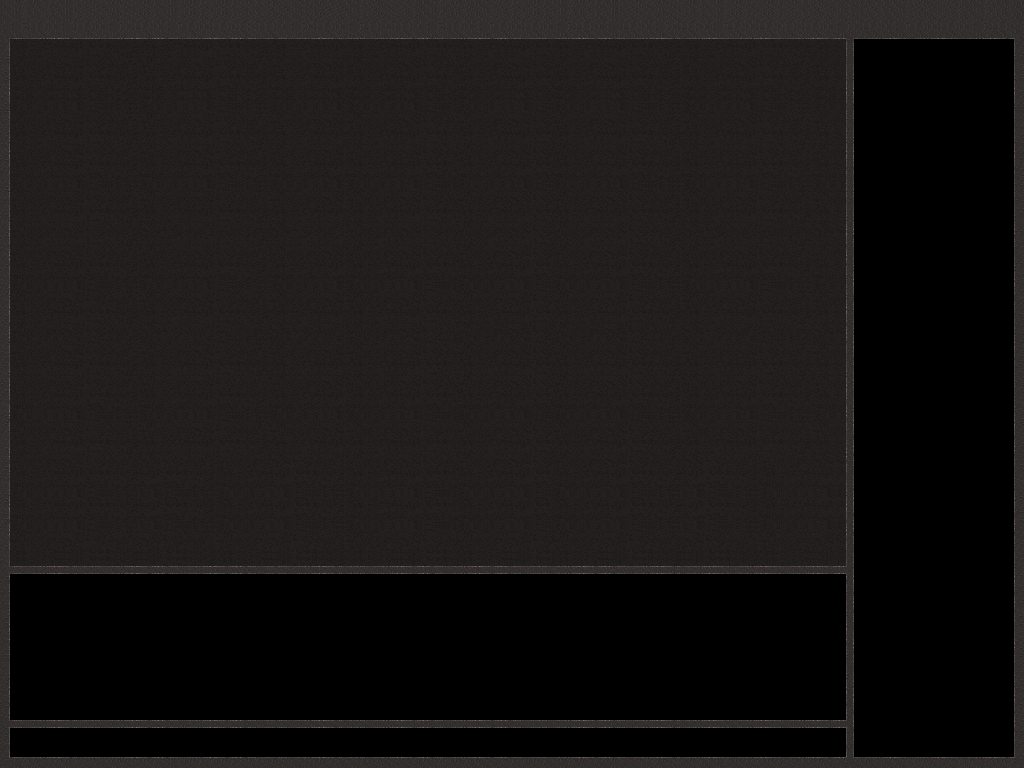
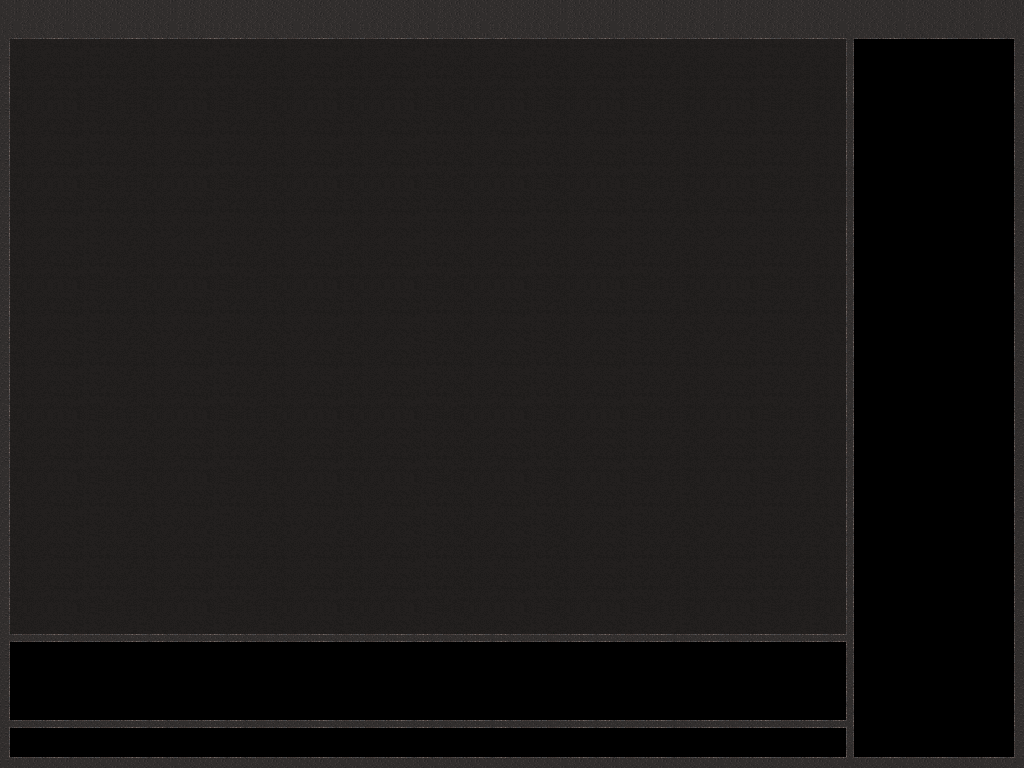
Corrected multiplayer UI.

Changed region(s): [[0.0, 0.7188, 0.8438, 0.8438]]

diff --git a/Wesnoth/src/multiplayer_connect.cpp b/Wesnoth/src/multiplayer_connect.cpp
@@ -325,20 +325,20 @@ connect::side::side(const side& a) :
 
 void connect::side::add_widgets_to_scrollpane(gui::scrollpane& pane, int pos)
 {
-	pane.add_widget(&player_number_,     0, 5 + pos);
-	pane.add_widget(combo_controller_.get(), 20, 5 + pos);
+	pane.add_widget(&player_number_,     0, 45 + pos);
+	pane.add_widget(combo_controller_.get(), 20, 45 + pos);
 	pane.add_widget(&orig_controller_,  20 + (combo_controller_->width() - orig_controller_.width()) / 2,
-									    35 + pos + (combo_leader_.height() - orig_controller_.height()) / 2);
-	pane.add_widget(&combo_ai_algorithm_, 20, 35 + pos);
-	pane.add_widget(&combo_faction_, 135, 5 + pos);
-	pane.add_widget(&combo_leader_,  135, 35 + pos);
-	pane.add_widget(&combo_gender_,  250, 35 + pos);
-	pane.add_widget(&combo_team_,    250, 5 + pos);
-	pane.add_widget(&combo_color_,  365, 5 + pos);
-	pane.add_widget(&slider_gold_,   475, 5 + pos);
-	pane.add_widget(&label_gold_,    475, 35 + pos);
-	pane.add_widget(&slider_income_, 475 + slider_gold_.width(),  5 + pos);
-	pane.add_widget(&label_income_,  475 + slider_gold_.width(), 35 + pos);
+									    75 + pos + (combo_leader_.height() - orig_controller_.height()) / 2);
+	pane.add_widget(&combo_ai_algorithm_, 20, 100 + pos);
+	pane.add_widget(&combo_faction_, 135, 45 + pos);
+	pane.add_widget(&combo_leader_,  135, 100 + pos);
+	pane.add_widget(&combo_gender_,  250, 100 + pos);
+	pane.add_widget(&combo_team_,    250, 45 + pos);
+	pane.add_widget(&combo_color_,  365, 45 + pos);
+	pane.add_widget(&slider_gold_,   475, 45 + pos);
+	pane.add_widget(&label_gold_,    475, 75 + pos);
+	pane.add_widget(&slider_income_, 475 + slider_gold_.width(),  45 + pos);
+	pane.add_widget(&label_income_,  475 + slider_gold_.width(), 75 + pos);
 }
 
 void connect::side::process_event()
@@ -1487,9 +1487,9 @@ void connect::layout_children(const SDL_Rect& rect)
 
 	// Buttons
 	right_button->set_location(right  - right_button->width(),
-	                           bottom - right_button->height());
+	                           bottom - right_button->height() + 80);
 	left_button->set_location(right  - right_button->width() - left_button->width() - gui::ButtonHPadding,
-	                          bottom - left_button->height());
+	                          bottom - left_button->height() + 80);
 
 	type_title_label_.set_location(left+30, top+35);
 	faction_title_label_.set_location((left+145), top+35);
@@ -1606,7 +1606,7 @@ void connect::lists_init()
 	// This function must be called after the sides_ vector is fully populated.
 	for(side_list::iterator s = sides_.begin(); s != sides_.end(); ++s) {
 		const int side_num = s - sides_.begin();
-		const int spos = 60 * (side_num-offset);
+		const int spos = 120 * (side_num-offset);
 		if(!s->allow_player()) {
 			offset++;
 			continue;

diff --git a/Wesnoth/src/multiplayer_create.cpp b/Wesnoth/src/multiplayer_create.cpp
@@ -694,17 +694,17 @@ void create::layout_children(const SDL_Rect& rect)
 	std::pair<int,int> resolution = preferences::resolution();
 	const bool low_hres = resolution.first <= 840;
 	const bool low_vres = resolution.second <= 600;
-	
+
 	const int border_size = low_vres ? 4 : 6;
 	const int column_border_size = low_hres ? 8 : 10;
 
 	SDL_Rect ca = client_area();
 	int xpos = ca.x;
 	int ypos = ca.y;
-	
+
 	const int minimap_width = !low_vres ? 200 : 100;
 	const int maps_menu_width = !low_hres ? 200 : 175;
-	
+
 	// Dialog title
 	ypos += low_vres ? 0 : title().height() + border_size;
 
@@ -764,7 +764,7 @@ void create::layout_children(const SDL_Rect& rect)
 
 	// Third column: big bunch of options
 	const bool two_sliders_per_row = low_vres;
-	
+
 	ypos = ypos_columntop - (low_vres ? name_entry_.height() + border_size : 0);
 	xpos += maps_menu_width + column_border_size;
 
@@ -782,7 +782,7 @@ void create::layout_children(const SDL_Rect& rect)
 	ypos += turns_label_.height() + border_size;
 	turns_slider_.set_width(slider_width);
 	turns_slider_.set_location(xpos, ypos);
-	
+
 	if (two_sliders_per_row) {
 	  ypos -= turns_label_.height() + border_size;
 	  xpos += turns_slider_.width() + border_size;
@@ -795,7 +795,7 @@ void create::layout_children(const SDL_Rect& rect)
 	xp_modifier_slider_.set_width(slider_width);
 	xp_modifier_slider_.set_location(xpos, ypos);
 	ypos += xp_modifier_slider_.height() + border_size;
-	
+
 	if (two_sliders_per_row) {
 	  xpos -= xp_modifier_slider_.width() + border_size;
 	}
@@ -842,9 +842,9 @@ void create::layout_children(const SDL_Rect& rect)
 
 	// Buttons
 	right_button->set_location(ca.x + ca.w - right_button->width(),
-	                           ca.y + ca.h - right_button->height());
+	                           ca.y + ca.h - right_button->height() + 50);
 	left_button->set_location(right_button->location().x - left_button->width() -
-	                          gui::ButtonHPadding, ca.y + ca.h - left_button->height());
+	                          gui::ButtonHPadding, ca.y + ca.h - left_button->height() + 50);
 }
 
 } // namespace mp

diff --git a/Wesnoth/src/multiplayer_ui.cpp b/Wesnoth/src/multiplayer_ui.cpp
@@ -651,8 +651,8 @@ void ui::layout_children(const SDL_Rect& /*rect*/)
 	users_menu_.set_location(xscale(856), yscale(42));
 	users_menu_.set_height(yscale(715));
 	users_menu_.set_max_height(yscale(715));
-	chat_textbox_.set_location(xscale(11) + 4, yscale(573) + 4);
-	chat_textbox_.set_measurements(xscale(833) - 8, yscale(143) - 8);
+	chat_textbox_.set_location(xscale(11) + 4, yscale(641) + 4);
+	chat_textbox_.set_measurements(xscale(833) - 8, yscale(75) - 8);
 	entry_textbox_.set_location(xscale(11) + 4, yscale(732));
 	entry_textbox_.set_width(xscale(833) - 8);
 }
